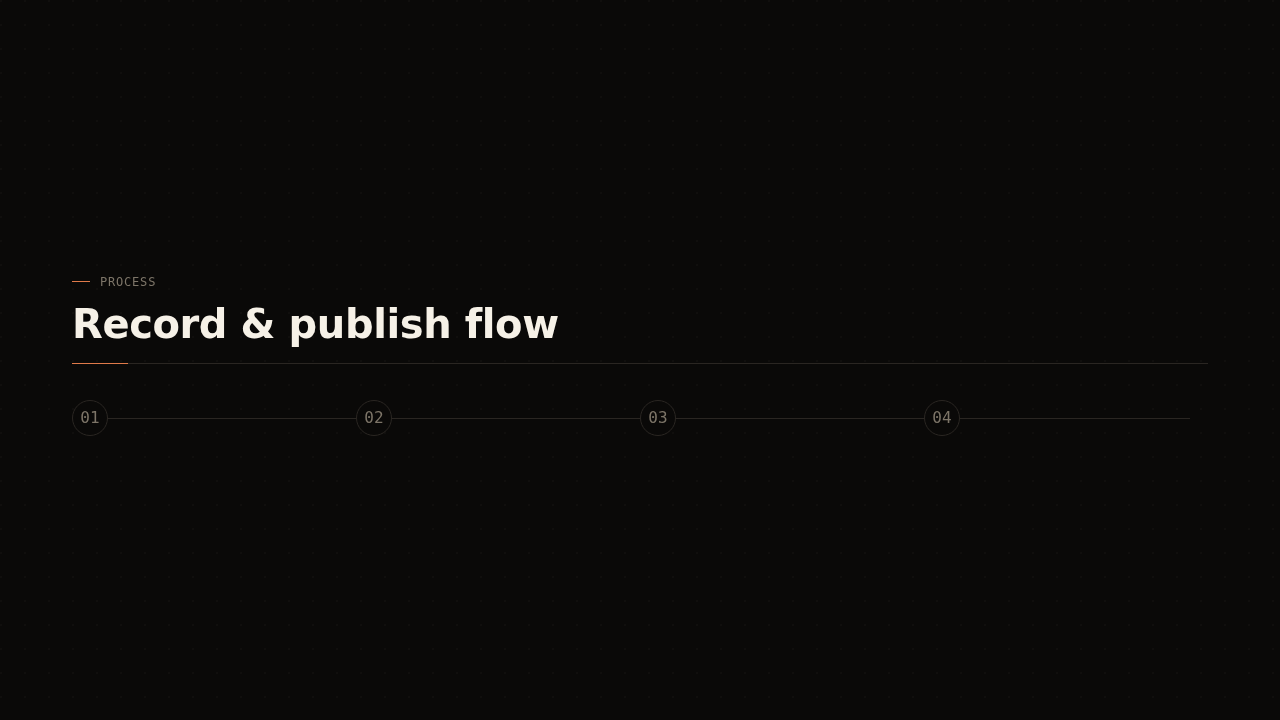
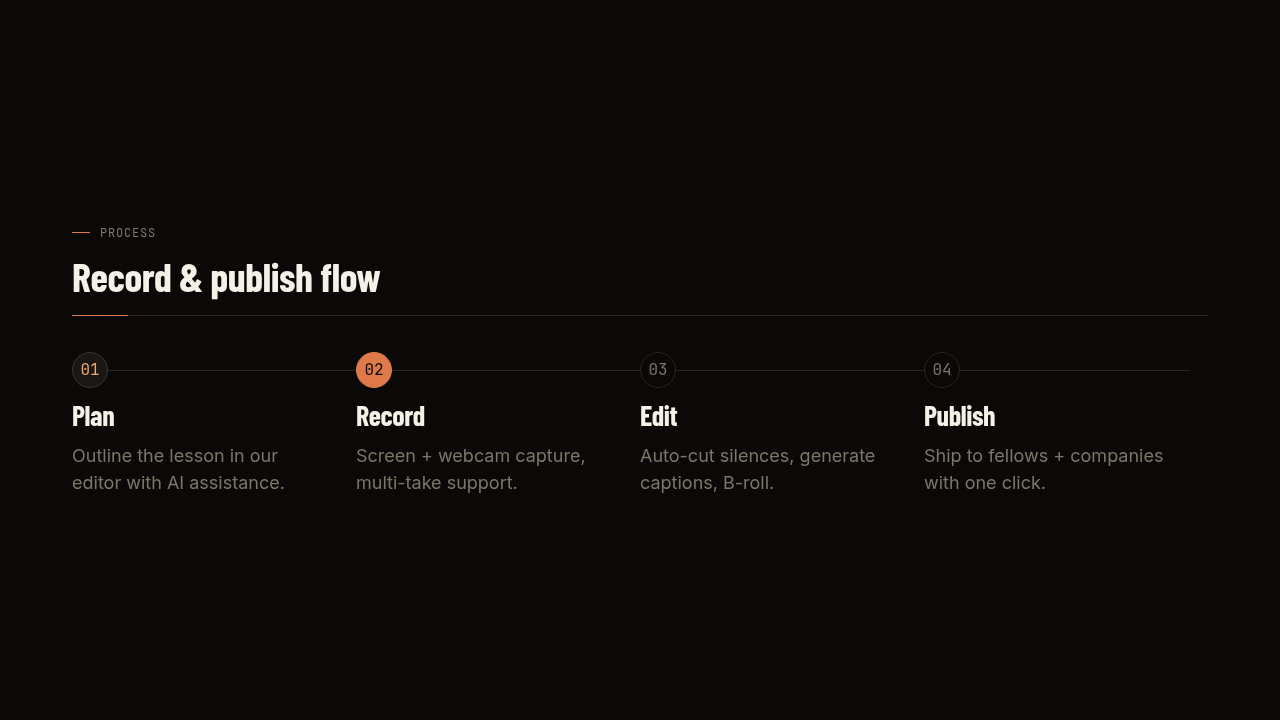
fix(steps): render num/title/body/state slots instead of dropping them
The steps template declared four per-item slots in config.yaml (num, title,
body, state) with samples, but landscape.html and portrait.html only ever
emitted {{text}} inside .tpl-steps__name and an empty .tpl-steps__num div.
Every authored step rendered as a bare circled number with no heading and no
description, and the --done/--active states were unreachable. The CSS already
styled .tpl-steps__body, which the markup never produced.

- emit {{num}}, {{title}}, {{body}} and the state modifier class
- keep {{text}} as a fallback for {{title}} so slides authored against the
  old single-slot behaviour keep rendering
- scope the CSS step counter to :empty so it still supplies the number when
  the author omits num, without doubling up when num is provided

diff --git a/templates/steps/landscape.html b/templates/steps/landscape.html
@@ -4,9 +4,10 @@
   <div class="dfl-section-rule"></div>
   <div class="tpl-steps__rail">
     {{#items}}
-    <div class="tpl-steps__step">
-      <div class="tpl-steps__num"></div>
-      <h4 class="tpl-steps__name">{{text}}</h4>
+    <div class="tpl-steps__step{{#state}} tpl-steps__step--{{state}}{{/state}}">
+      <div class="tpl-steps__num">{{num}}</div>
+      <h4 class="tpl-steps__name">{{#title}}{{title}}{{/title}}{{^title}}{{text}}{{/title}}</h4>
+      {{#body}}<p class="tpl-steps__body">{{body}}</p>{{/body}}
     </div>
     {{/items}}
   </div>

diff --git a/templates/steps/portrait.html b/templates/steps/portrait.html
@@ -4,9 +4,10 @@
   <div class="dfl-section-rule"></div>
   <div class="tpl-steps__rail">
     {{#items}}
-    <div class="tpl-steps__step">
-      <div class="tpl-steps__num"></div>
-      <h4 class="tpl-steps__name">{{text}}</h4>
+    <div class="tpl-steps__step{{#state}} tpl-steps__step--{{state}}{{/state}}">
+      <div class="tpl-steps__num">{{num}}</div>
+      <h4 class="tpl-steps__name">{{#title}}{{title}}{{/title}}{{^title}}{{text}}{{/title}}</h4>
+      {{#body}}<p class="tpl-steps__body">{{body}}</p>{{/body}}
     </div>
     {{/items}}
   </div>

diff --git a/templates/steps/portrait.css b/templates/steps/portrait.css
@@ -80,7 +80,7 @@
   flex-shrink: 0;
 }
 
-.tpl-root.tpl-steps.tpl-steps--portrait .tpl-steps__num::before {
+.tpl-root.tpl-steps.tpl-steps--portrait .tpl-steps__num:empty::before {
   content: counter(step-counter, decimal-leading-zero);
 }
 

diff --git a/templates/steps/landscape.css b/templates/steps/landscape.css
@@ -76,7 +76,7 @@
   flex-shrink: 0;
 }
 
-.tpl-root.tpl-steps .tpl-steps__num::before {
+.tpl-root.tpl-steps .tpl-steps__num:empty::before {
   content: counter(step-counter, decimal-leading-zero);
 }
 
